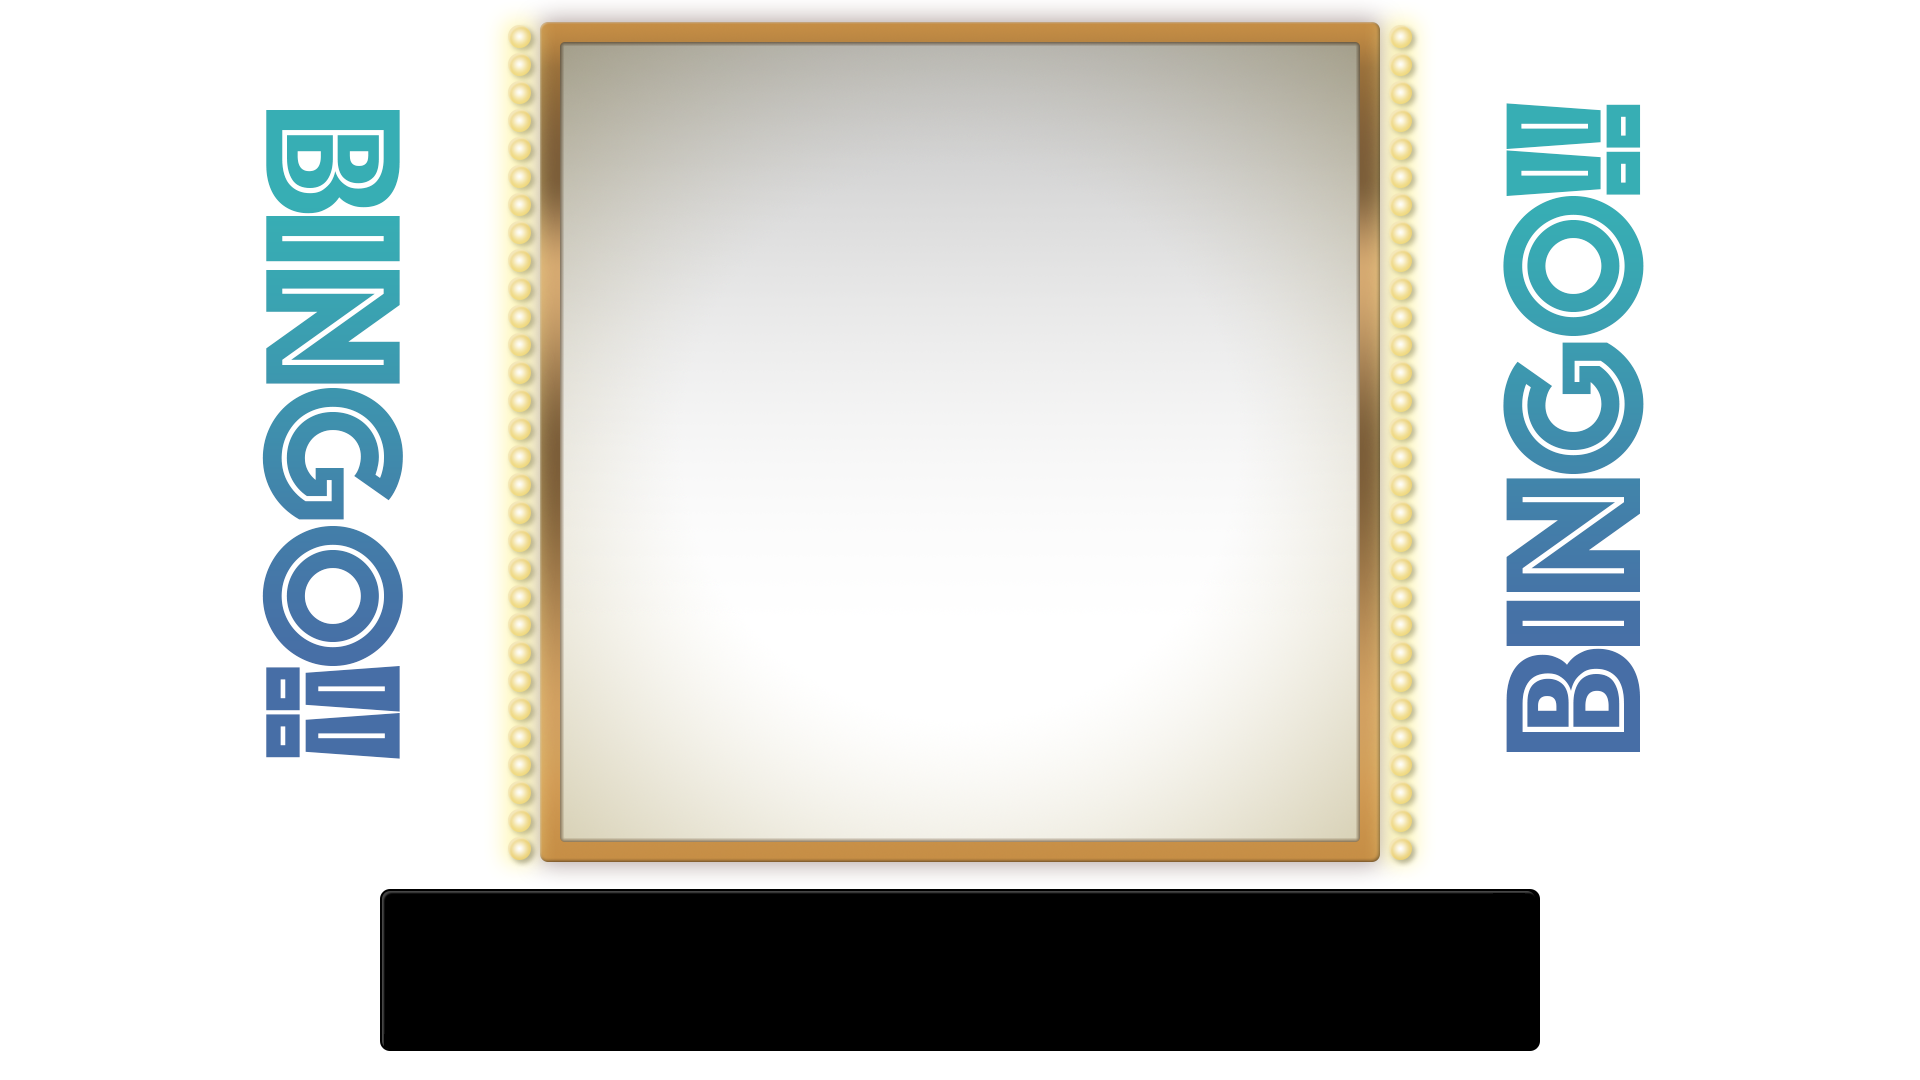
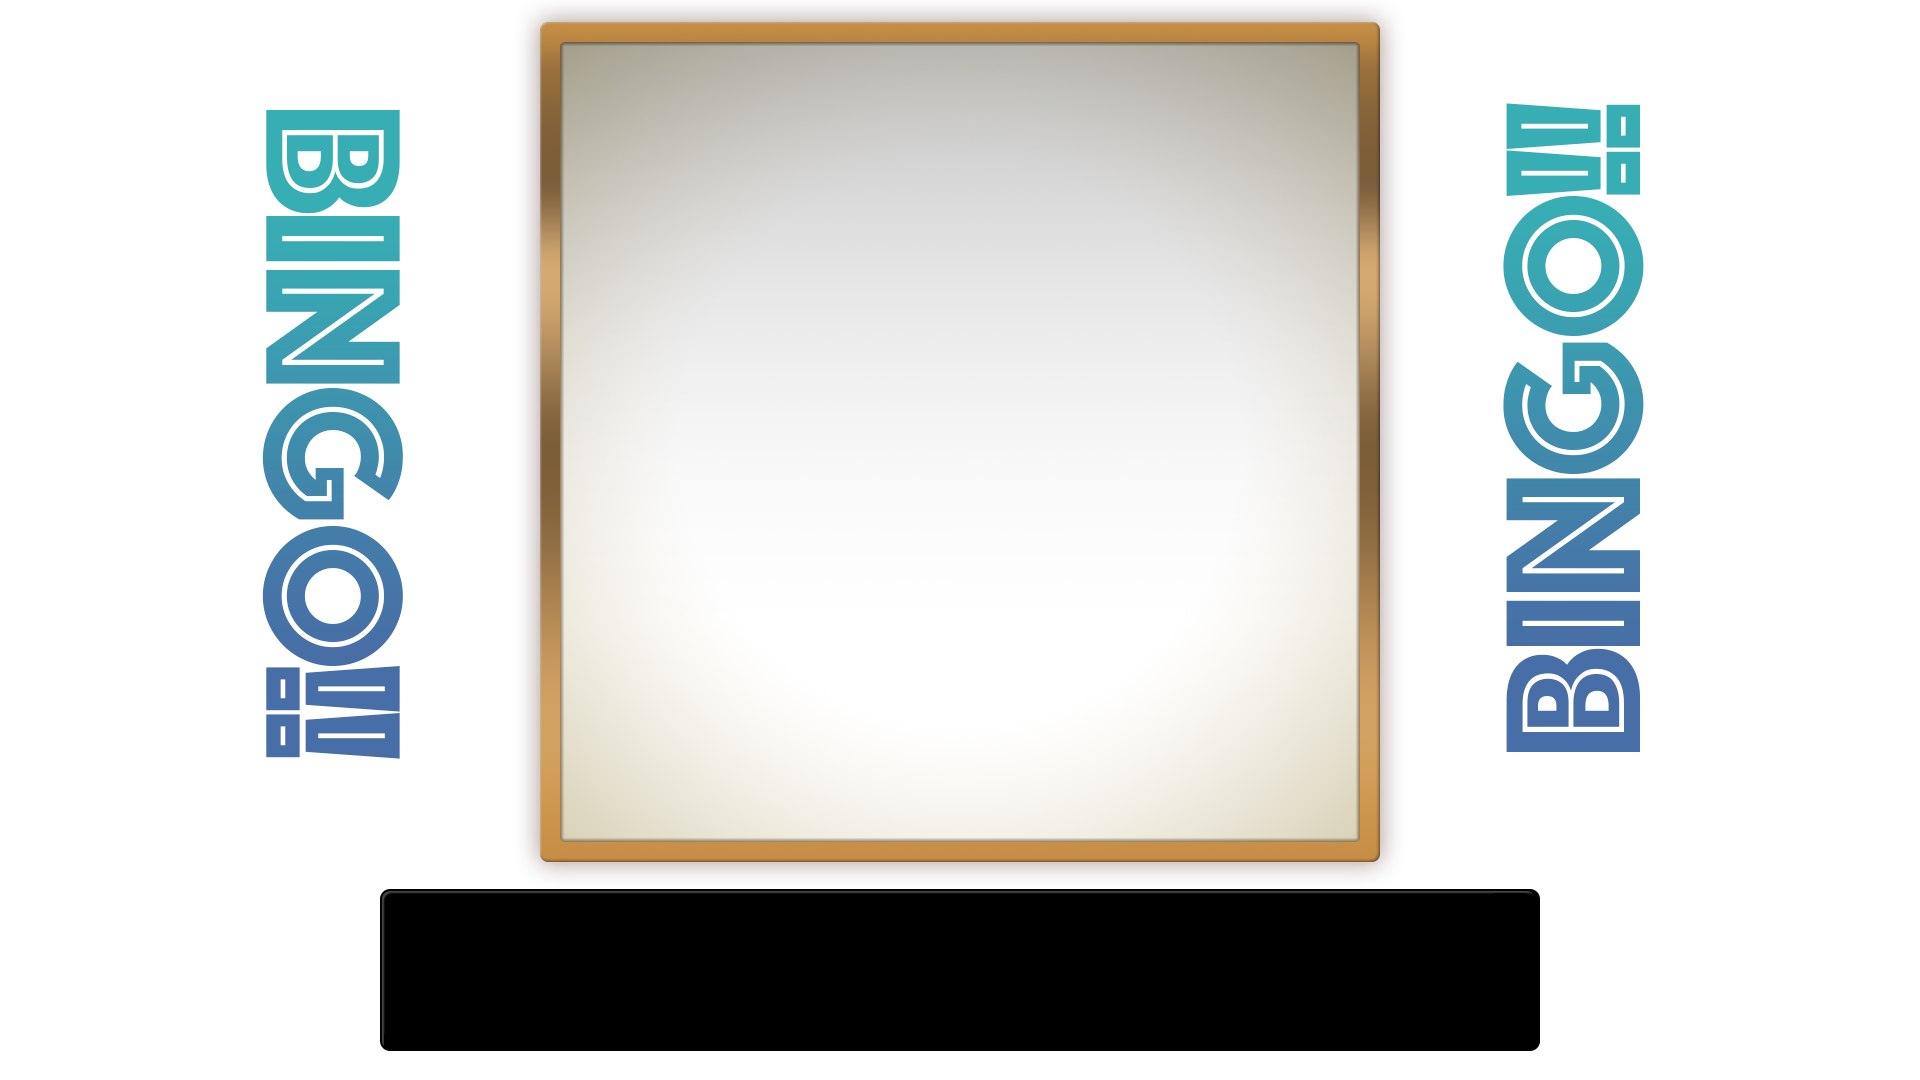
Add light animation

Changed region(s): [[0.7188, 0.0, 0.75, 0.825], [0.25, 0.0, 0.2812, 0.825]]

diff --git a/components/IndexContainer.js b/components/IndexContainer.js
@@ -93,9 +93,52 @@ class IndexContainer extends Component {
             line-height: 165px;
             font-size: 72px;
           }
+
+          .light-left {
+            position: absolute;
+            top:  -1px;
+            left: 480px;
+          }
+          
+          .light-left.on {
+            animation:blink-left 2.0s step-end infinite alternate;
+          }
+
+          .light-right {
+            position: absolute;
+            top:  -1px;
+            right: 480px;
+            
+          }
+
+          .light-right.on {
+            animation:blink-right 2.0s step-end infinite alternate;
+          }
+
+          .on {
+            z-index: 2;
+            opacity: 0;
+          }
+
+          .off {
+            z-index: 1;
+          }
+
+          @keyframes blink-left {
+            34%,66%,100% {opacity:0;}
+            0%,33%,67%,99% {opacity:1;}
+          }
+
+          @keyframes blink-right {
+            34%,66%,100% {opacity:1;}
+            0%,33%,67%,99% {opacity:0;}
+          }
         `}</style>
 
         <div className='game'>
+          <img className='light-left on' src='/static/images/light-on.png' alt='' />
+          <img className='light-left off' src='/static/images/light-off.png' alt='' />
+
           <div className='slot'>
             <Slot
               pattern={this.props.pattern}
@@ -104,6 +147,8 @@ class IndexContainer extends Component {
             />
           </div>
 
+          <img className='light-right on' src='/static/images/light-on.png' alt='' />
+          <img className='light-right off' src='/static/images/light-off.png' alt='' />
         </div>
 
         <Link href='result'>
